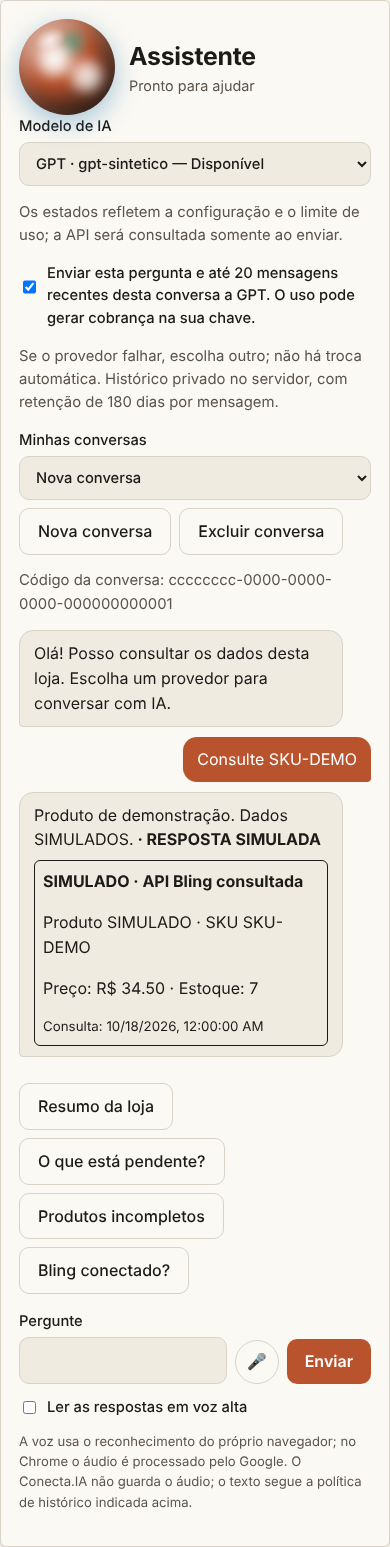
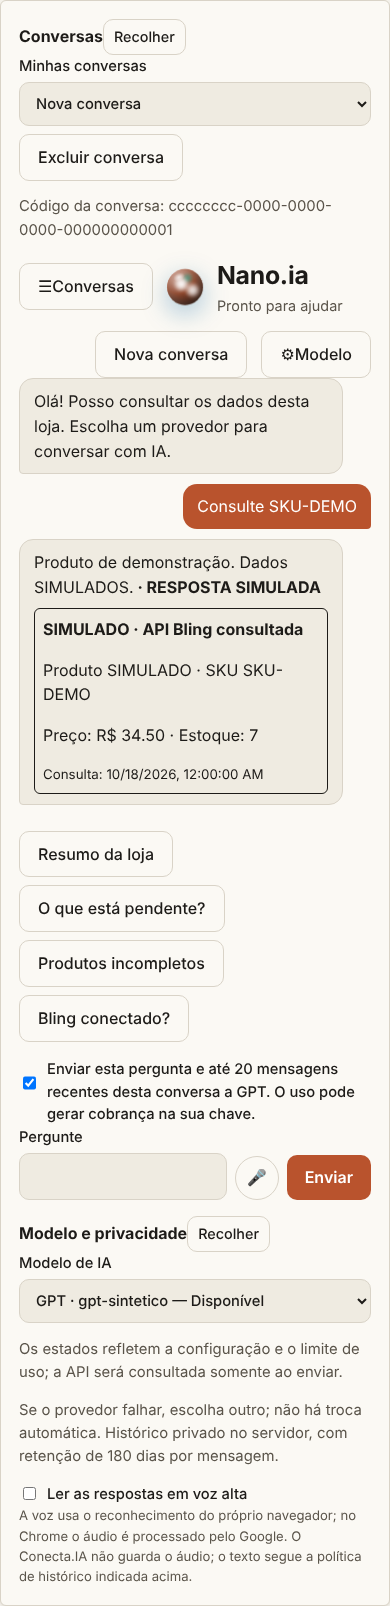
feat(assistente): abas laterais retrateis (conversas e modelo/privacidade), conversa ocupa a tela
Claude-Session: https://claude.ai/code/session_01VMHvTDaEn6HYb7ZmrJorve

diff --git a/painel/src/paginas/Assistente.tsx b/painel/src/paginas/Assistente.tsx
@@ -27,6 +27,9 @@ export function Assistente({ loja }: { loja: Loja }) {
   const [retentativa, setRetentativa] = useState<{ texto: string; chave: string; provedor: ProvedorChat; conversa: string | null } | null>(null);
   const [texto, setTexto] = useState("");
   const [ocupado, setOcupado] = useState(false);
+  const [esq, setEsq] = useState(false), [dir, setDir] = useState(false); // abas laterais retráteis (conversas / modelo e privacidade)
+  const caixa = useRef<HTMLDivElement>(null);
+  const estreito = () => (caixa.current?.clientWidth ?? 0) < 820; // em tela estreita as abas são gavetas sobrepostas: só uma por vez
   const [provedores, setProvedores] = useState<OpcaoProvedor[]>([]);
   const [provedor, setProvedor] = useState<ProvedorChat | "">("");
   const [carregandoChat, setCarregandoChat] = useState(true);
@@ -140,25 +143,32 @@ export function Assistente({ loja }: { loja: Loja }) {
   const alternarFala = () => { const v = !lerAlto; setLerAlto(v); gravarPreferenciaFala(v); if (!v) voz.calar(); };
 
   return (
-    <div className="cartao chat-tela">
-      <div className="agente"><Esfera estado={estado} tamanho={44} /><div><h1 style={{ margin: 0 }}>Assistente</h1><span className="estado" aria-live="polite">{{ parado: "Pronto para ajudar", ouvindo: "Ouvindo você…", pensando: "Pensando…", falando: "Falando…" }[estado]}</span></div>{(config.persistente || conversas.length > 0) && <button className="sec" style={{ marginLeft: "auto" }} disabled={ocupado} onClick={nova}>Nova conversa</button>}</div>
-      <details className="chat-config"><summary>Configurações e conversas</summary>
-      <label>Modelo de IA<select value={provedor} disabled={ocupado || carregando || !!erroConfig || !!retentativa || administrando} onChange={(e) => { setProvedor(e.target.value as ProvedorChat | ""); setAceitaEnvio(false); }}>
-        <option value="">Resumo local (sem IA externa)</option>
-        {provedores.map((p) => <option key={p.id} value={p.id} disabled={p.estado !== "disponivel"}>{p.nome}{p.modelo ? ` · ${p.modelo}` : ""} — {ESTADO_PROVEDOR[p.estado]}</option>)}
-      </select></label>
-      <p className="suave">Os estados refletem a configuração e o limite de uso; a API será consultada somente ao enviar.</p>
-      <p className="suave">{provedor ? "Se o provedor falhar, escolha outro; não há troca automática." : "Só consultas por palavras-chave, sem enviar a um provedor de IA."} {config.persistente && provedor ? ` Histórico privado no servidor, com retenção de ${config.retencao_dias} dias por mensagem.` : " Histórico temporário nesta tela."}</p>
-      {(config.persistente || conversas.length > 0) && <div style={{ display: "flex", gap: 8, flexWrap: "wrap" }}>
-        <label style={{ flex: "1 1 220px" }}>Minhas conversas<select value={administrando ? "" : conversaId ?? ""} disabled={ocupado} onChange={e => e.target.value ? void abrir(e.target.value) : nova()}><option value="">Nova conversa</option>{conversas.map(c => <option key={c.id} value={c.id}>{c.titulo}</option>)}</select></label>
-        
-        {maisConversas && <button className="sec" disabled={ocupado} onClick={() => void listarConversas(true)}>Mais conversas</button>}
-        {conversaId && !administrando && <button className="sec" disabled={ocupado} onClick={() => void excluir()}>Excluir conversa</button>}
-      </div>}
-      {conversaId && <p className="suave" style={{ overflowWrap: "anywhere" }}>Código da conversa: {conversaId}{administrando ? " · Leitura administrativa auditada" : ""}</p>}
-      {podeAdministrar && <details><summary>Retenção e acesso administrativo</summary><p>A auditoria tem política própria e não é excluída junto com as conversas.</p><label>Retenção em dias (7–730)<input type="number" min={7} max={730} value={dias} onChange={e => setDias(Number(e.target.value))} /></label><button className="sec" disabled={ocupado} onClick={() => void reter()}>Salvar retenção</button>
-      {config.leitura_administrativa && <><p>Somente conversas desta empresa. Cada consulta registra usuário, motivo e conversa na auditoria.</p><label>Código da conversa<input value={adminId} onChange={e => setAdminId(e.target.value)} /></label><label>Motivo administrativo<input value={motivo} maxLength={300} onChange={e => setMotivo(e.target.value)} /></label><button className="sec" disabled={ocupado || motivo.trim().length < 10 || !adminId} onClick={() => void abrir(adminId, false, true)}>Consultar e auditar acesso</button></>}</details>}
-      </details>
+    <div className="abas-caixa" ref={caixa}>
+    <div className="cartao chat-tela abas" data-esq={esq ? "aberto" : "fechado"} data-dir={dir ? "aberto" : "fechado"}>
+      {(esq || dir) && <button type="button" className="abas-fundo" aria-label="Fechar painel lateral" onClick={() => { setEsq(false); setDir(false); }} />}
+      <aside className="aba aba-esq" id="aba-conversas" aria-label="Conversas">
+        <div className="aba-topo"><strong>Conversas</strong><button type="button" className="sec mini" onClick={() => setEsq(false)} aria-label="Recolher conversas">Recolher</button></div>
+        <div className="aba-corpo">
+        {!(config.persistente || conversas.length > 0) && <p className="suave">Ainda não há conversas salvas. Elas aparecem aqui quando o histórico privado estiver ativo.</p>}
+        {(config.persistente || conversas.length > 0) && <div style={{ display: "flex", gap: 8, flexWrap: "wrap" }}>
+          <label style={{ flex: "1 1 220px" }}>Minhas conversas<select value={administrando ? "" : conversaId ?? ""} disabled={ocupado} onChange={e => e.target.value ? void abrir(e.target.value) : nova()}><option value="">Nova conversa</option>{conversas.map(c => <option key={c.id} value={c.id}>{c.titulo}</option>)}</select></label>
+          
+          {maisConversas && <button className="sec" disabled={ocupado} onClick={() => void listarConversas(true)}>Mais conversas</button>}
+          {conversaId && !administrando && <button className="sec" disabled={ocupado} onClick={() => void excluir()}>Excluir conversa</button>}
+        </div>}
+        {conversaId && <p className="suave" style={{ overflowWrap: "anywhere" }}>Código da conversa: {conversaId}{administrando ? " · Leitura administrativa auditada" : ""}</p>}
+        {podeAdministrar && <details><summary>Retenção e acesso administrativo</summary><p>A auditoria tem política própria e não é excluída junto com as conversas.</p><label>Retenção em dias (7–730)<input type="number" min={7} max={730} value={dias} onChange={e => setDias(Number(e.target.value))} /></label><button className="sec" disabled={ocupado} onClick={() => void reter()}>Salvar retenção</button>
+        {config.leitura_administrativa && <><p>Somente conversas desta empresa. Cada consulta registra usuário, motivo e conversa na auditoria.</p><label>Código da conversa<input value={adminId} onChange={e => setAdminId(e.target.value)} /></label><label>Motivo administrativo<input value={motivo} maxLength={300} onChange={e => setMotivo(e.target.value)} /></label><button className="sec" disabled={ocupado || motivo.trim().length < 10 || !adminId} onClick={() => void abrir(adminId, false, true)}>Consultar e auditar acesso</button></>}</details>}
+        </div>
+      </aside>
+      <section className="abas-centro" aria-label="Conversa com o Nano.ia">
+      <div className="agente">
+        <button type="button" className="sec ic-aba" aria-expanded={esq} aria-controls="aba-conversas" aria-label="Conversas" onClick={() => { setEsq((v) => !v); if (estreito()) setDir(false); }}>☰<span> Conversas</span></button>
+        <Esfera estado={estado} tamanho={36} />
+        <div className="agente-titulo"><h1 style={{ margin: 0 }}>Nano.ia</h1><span className="estado" aria-live="polite">{{ parado: "Pronto para ajudar", ouvindo: "Ouvindo você…", pensando: "Pensando…", falando: "Falando…" }[estado]}</span></div>
+        {(config.persistente || conversas.length > 0) && <button className="sec" style={{ marginLeft: "auto" }} disabled={ocupado} onClick={nova}>Nova conversa</button>}
+        <button type="button" className="sec ic-aba" aria-expanded={dir} aria-controls="aba-modelo" aria-label="Modelo e privacidade" onClick={() => { setDir((v) => !v); if (estreito()) setEsq(false); }}>⚙<span> Modelo</span></button>
+      </div>
       {carregando && <p role="status">Verificando provedores…</p>}
       {erroConfig && <p role="alert" className="msg-erro">{erroConfig}</p>}
       {erroHistorico && <p role="status">{erroHistorico}</p>}
@@ -176,11 +186,24 @@ export function Assistente({ loja }: { loja: Loja }) {
           <button disabled={ocupado || !podeEnviar || administrando || !!retentativa}>Enviar</button>
         </div>
         {voz.erro && <p className="msg-erro">{voz.erro}</p>}
-        {voz.suporteFala && <label className="linha" style={{ display: "flex" }}><input type="checkbox" style={{ width: "auto", minHeight: "auto" }} checked={lerAlto} onChange={alternarFala} /> Ler as respostas em voz alta</label>}
-        {(voz.suporteMic || voz.suporteFala) && <details className="chat-voz-aviso"><summary>Sobre a voz e a privacidade</summary><p className="aviso-voz">A voz usa o reconhecimento do próprio navegador; no Chrome o áudio é processado pelo Google. O Conecta.IA não guarda o áudio; o texto segue a política de histórico indicada acima.</p></details>}
         {!voz.suporteMic && <p className="aviso-voz">Este navegador não oferece microfone para sites. Use o campo de texto.</p>}
       </form>
       </div>
+      </section>
+      <aside className="aba aba-dir" id="aba-modelo" aria-label="Modelo e privacidade">
+        <div className="aba-topo"><strong>Modelo e privacidade</strong><button type="button" className="sec mini" onClick={() => setDir(false)} aria-label="Recolher modelo e privacidade">Recolher</button></div>
+        <div className="aba-corpo">
+        <label>Modelo de IA<select value={provedor} disabled={ocupado || carregando || !!erroConfig || !!retentativa || administrando} onChange={(e) => { setProvedor(e.target.value as ProvedorChat | ""); setAceitaEnvio(false); }}>
+          <option value="">Resumo local (sem IA externa)</option>
+          {provedores.map((p) => <option key={p.id} value={p.id} disabled={p.estado !== "disponivel"}>{p.nome}{p.modelo ? ` · ${p.modelo}` : ""} — {ESTADO_PROVEDOR[p.estado]}</option>)}
+        </select></label>
+        <p className="suave">Os estados refletem a configuração e o limite de uso; a API será consultada somente ao enviar.</p>
+        <p className="suave">{provedor ? "Se o provedor falhar, escolha outro; não há troca automática." : "Só consultas por palavras-chave, sem enviar a um provedor de IA."} {config.persistente && provedor ? ` Histórico privado no servidor, com retenção de ${config.retencao_dias} dias por mensagem.` : " Histórico temporário nesta tela."}</p>
+        {voz.suporteFala && <label className="linha" style={{ display: "flex" }}><input type="checkbox" style={{ width: "auto", minHeight: "auto" }} checked={lerAlto} onChange={alternarFala} /> Ler as respostas em voz alta</label>}
+        {(voz.suporteMic || voz.suporteFala) && <p className="aviso-voz">A voz usa o reconhecimento do próprio navegador; no Chrome o áudio é processado pelo Google. O Conecta.IA não guarda o áudio; o texto segue a política de histórico indicada acima.</p>}
+        </div>
+      </aside>
+    </div>
     </div>
   );
 }

diff --git a/painel/src/shell.css b/painel/src/shell.css
@@ -202,10 +202,36 @@ a.botao-link:hover { background:var(--realce); }
 a.ficha-wa { display: block; text-align: center; padding: 12px; background: #1f9d55; color: #fff; font-weight: 700; text-decoration: none; }
 
 /* Assistente como conversa: cabeçalho compacto, configurações recolhidas e compositor fixo no rodapé (acima da barra de status e da área segura) */
-.chat-tela { display: grid; gap: 10px; }
-.chat-tela .agente { gap: 10px; flex-wrap: nowrap; } .chat-tela .agente h1 { font-size: 1.1rem; }
-.chat-config, .chat-voz-aviso { border: 1px solid var(--borda); border-radius: var(--raio); padding: 4px 10px; }
-.chat-config summary, .chat-voz-aviso summary { cursor: pointer; font-weight: 600; min-height: 36px; display: flex; align-items: center; }
-.chat-config[open] { display: grid; gap: 10px; padding-bottom: 10px; }
-.chat-voz-aviso summary { font-weight: 500; font-size: .85rem; min-height: 32px; }
-.chat-compositor { position: sticky; bottom: calc(32px + env(safe-area-inset-bottom, 0px)); z-index: 2; display: grid; gap: 6px; padding: 8px 0 4px; background: var(--cartao, var(--fundo)); border-top: 1px solid var(--borda); }
+
+/* ===== Nano.ia / Assistente: conversa em primeiro lugar, com abas laterais retráteis (conversas e modelo/privacidade) ===== */
+.abas-caixa { container: abas / inline-size; height: calc(100dvh - 182px); min-height: 420px; }
+@media (min-width: 960px) { .abas-caixa { height: calc(100dvh - 128px); } }
+.dock-agente .dock-corpo:has(.abas-caixa) { padding: 0; overflow: hidden; display: block; }
+.dock-agente .abas-caixa { height: 100%; min-height: 0; }
+.abas { position: relative; display: grid; grid-template-columns: minmax(0, 1fr); height: 100%; padding: 8px; gap: 8px; overflow: hidden; }
+.abas-centro { display: flex; flex-direction: column; gap: 8px; min-width: 0; min-height: 0; }
+.abas-centro > * { flex: none; }
+.abas-centro > .chat { flex: 1 1 auto; overflow-y: auto; min-height: 120px; align-content: start; }
+.abas .agente { gap: 8px; flex-wrap: nowrap; }
+.abas .agente h1 { font-size: 1.05rem; }
+.abas .agente-titulo { min-width: 0; display: grid; }
+.abas .agente-titulo .estado { white-space: nowrap; overflow: hidden; text-overflow: ellipsis; }
+.abas .ic-aba { min-height: 44px; min-width: 44px; padding: 6px 10px; white-space: nowrap; display: inline-flex; align-items: center; gap: 6px; }
+.abas .chat-compositor { display: grid; gap: 6px; padding-top: 8px; border-top: 1px solid var(--borda); }
+.aba { position: absolute; top: 0; bottom: 0; z-index: 3; width: min(88%, 330px); display: flex; flex-direction: column; background: var(--cartao, var(--fundo)); border: 1px solid var(--borda); box-shadow: 0 0 40px rgba(0,0,0,.25); visibility: hidden; transition: transform .2s, visibility .2s; }
+.aba-esq { left: 0; transform: translateX(-105%); border-radius: 0 var(--raio) var(--raio) 0; }
+.aba-dir { right: 0; transform: translateX(105%); border-radius: var(--raio) 0 0 var(--raio); }
+.abas[data-esq="aberto"] .aba-esq, .abas[data-dir="aberto"] .aba-dir { transform: none; visibility: visible; }
+.aba-topo { display: flex; align-items: center; justify-content: space-between; gap: 8px; padding: 10px 12px; border-bottom: 1px solid var(--borda); }
+.aba-corpo { padding: 12px; display: grid; gap: 10px; align-content: start; overflow-y: auto; min-height: 0; }
+.abas-fundo { position: absolute; inset: 0; z-index: 2; background: rgba(8,16,24,.5); border: 0; border-radius: 0; padding: 0; min-height: 0; }
+.abas-fundo:hover:not(:disabled) { background: rgba(8,16,24,.5); }
+@container abas (max-width: 460px) { .abas .ic-aba span { display: none; } }
+@container abas (min-width: 820px) {
+  .abas[data-esq="aberto"] { grid-template-columns: 260px minmax(0, 1fr); }
+  .abas[data-dir="aberto"] { grid-template-columns: minmax(0, 1fr) 300px; }
+  .abas[data-esq="aberto"][data-dir="aberto"] { grid-template-columns: 260px minmax(0, 1fr) 300px; }
+  .aba { position: static; width: auto; transform: none; visibility: visible; box-shadow: none; display: none; border-radius: var(--raio); }
+  .abas[data-esq="aberto"] .aba-esq, .abas[data-dir="aberto"] .aba-dir { display: flex; }
+  .abas-fundo { display: none; }
+}
